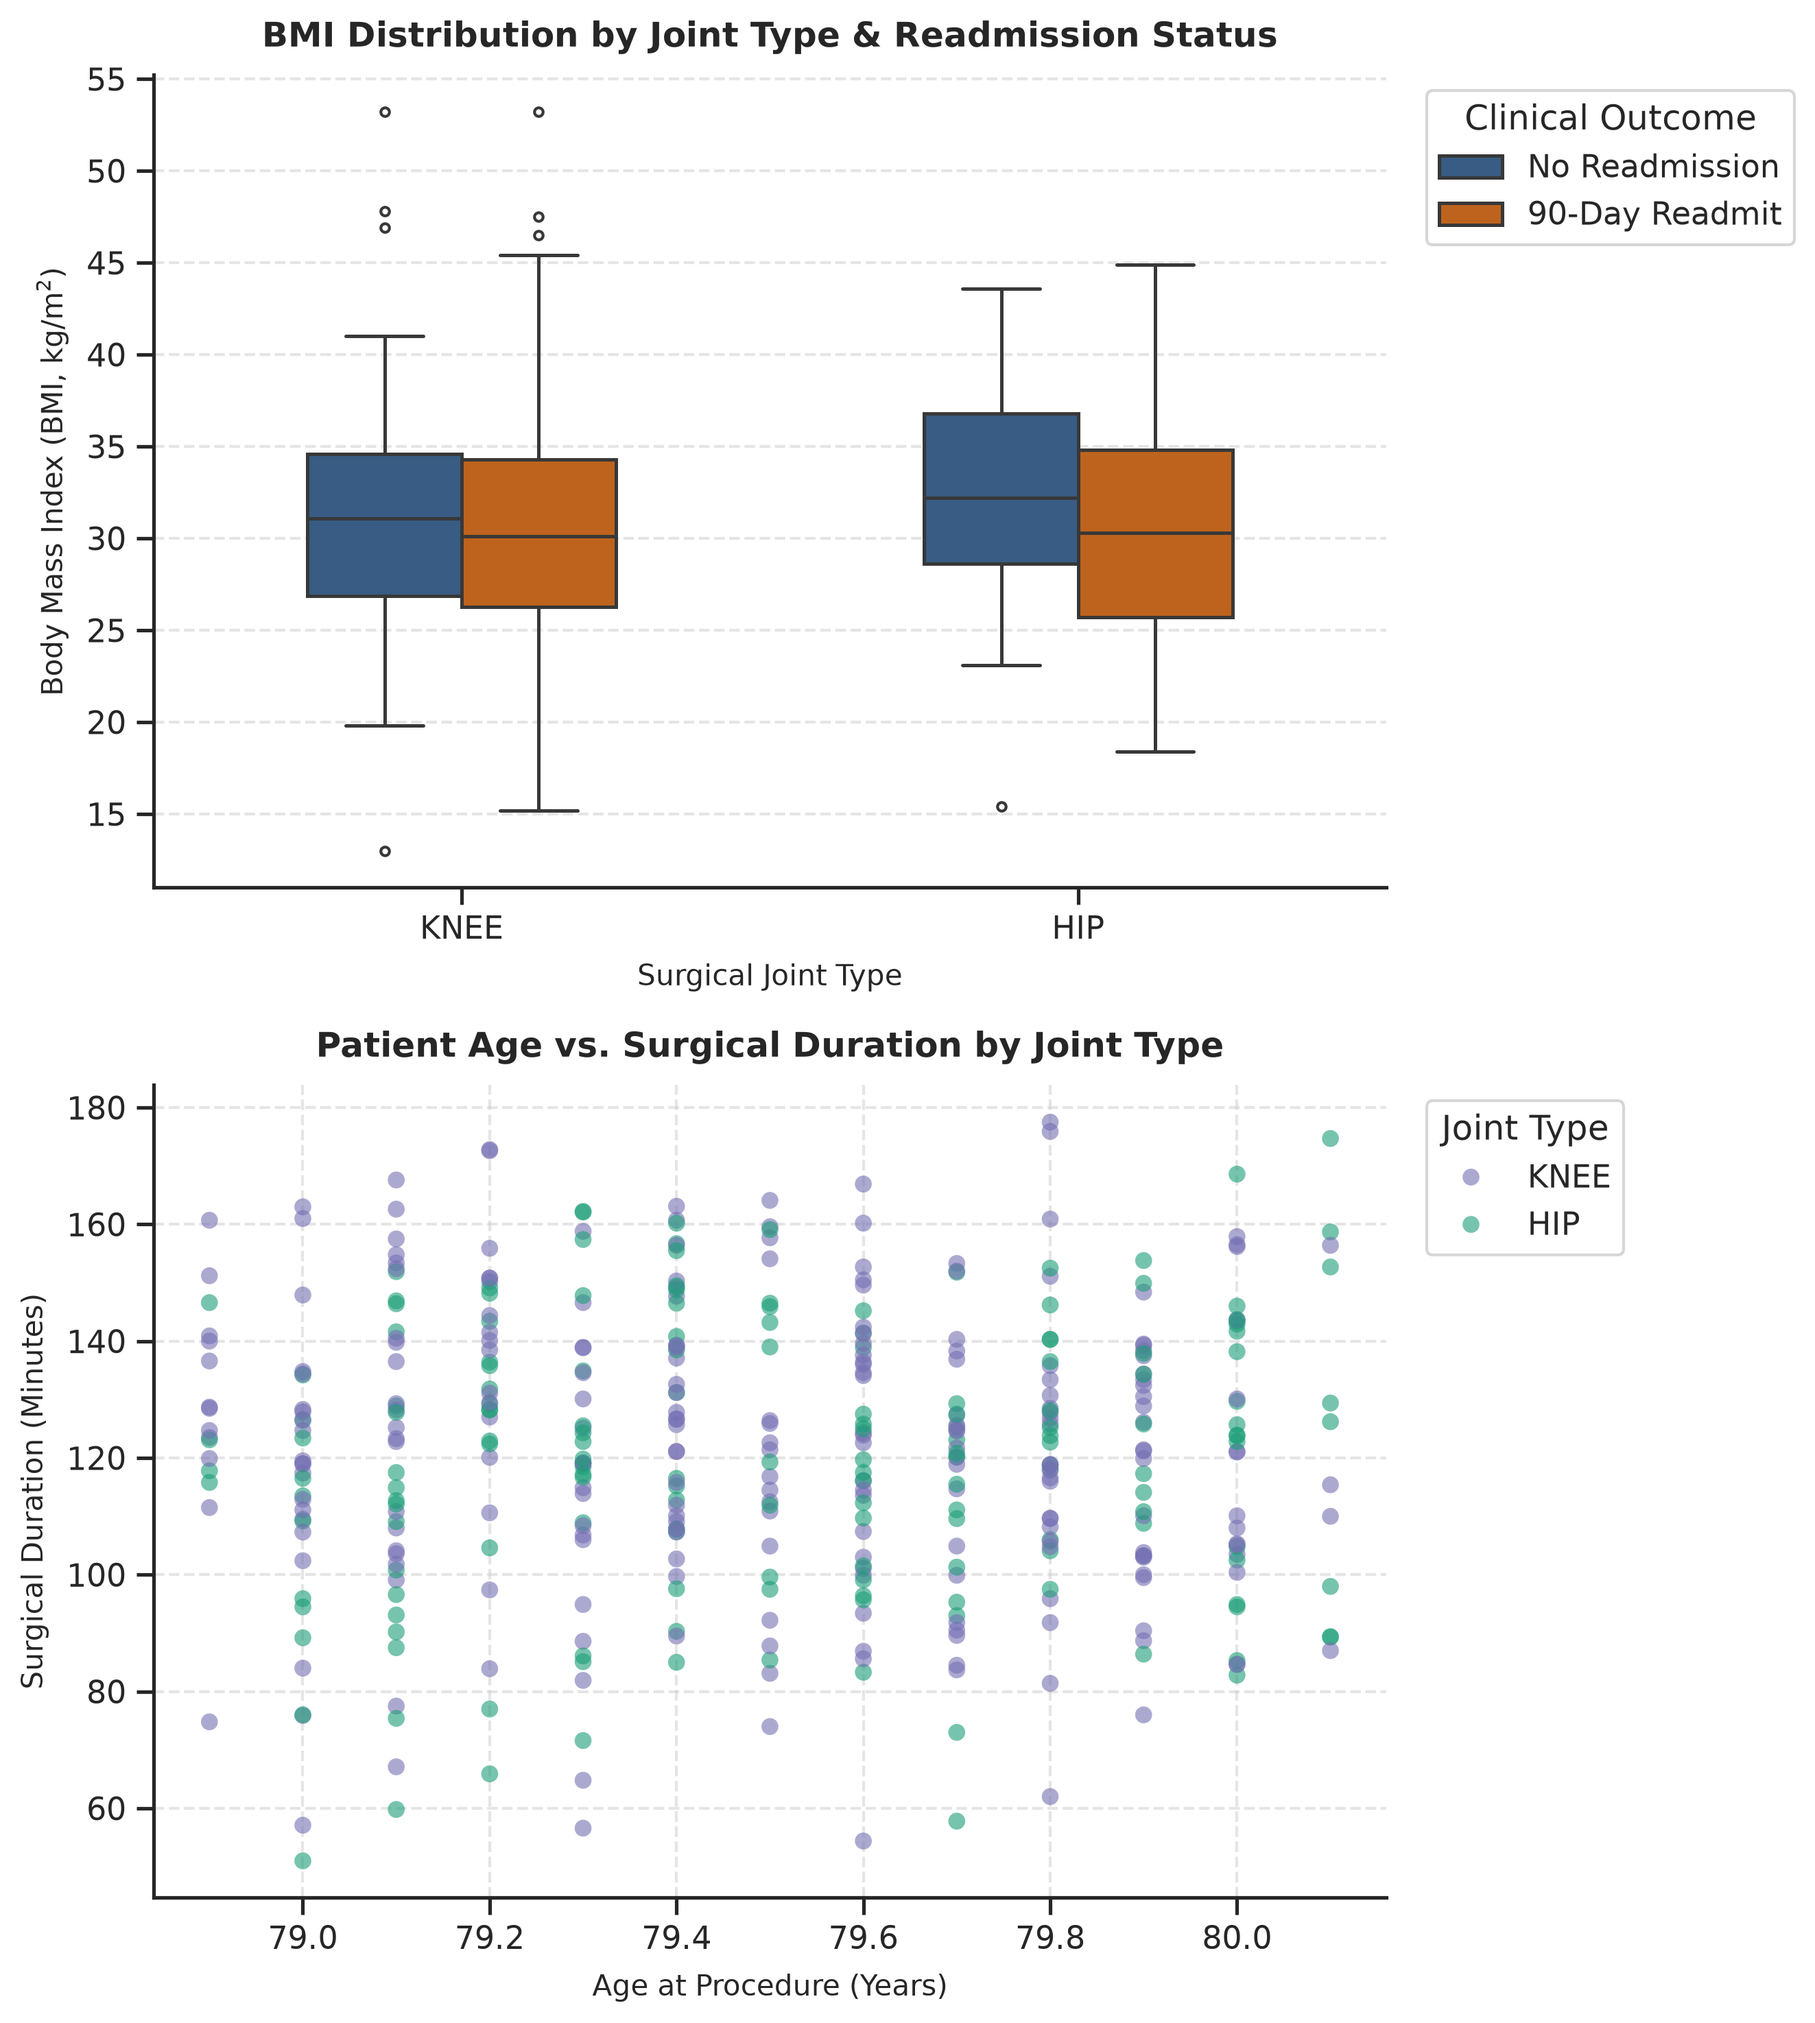
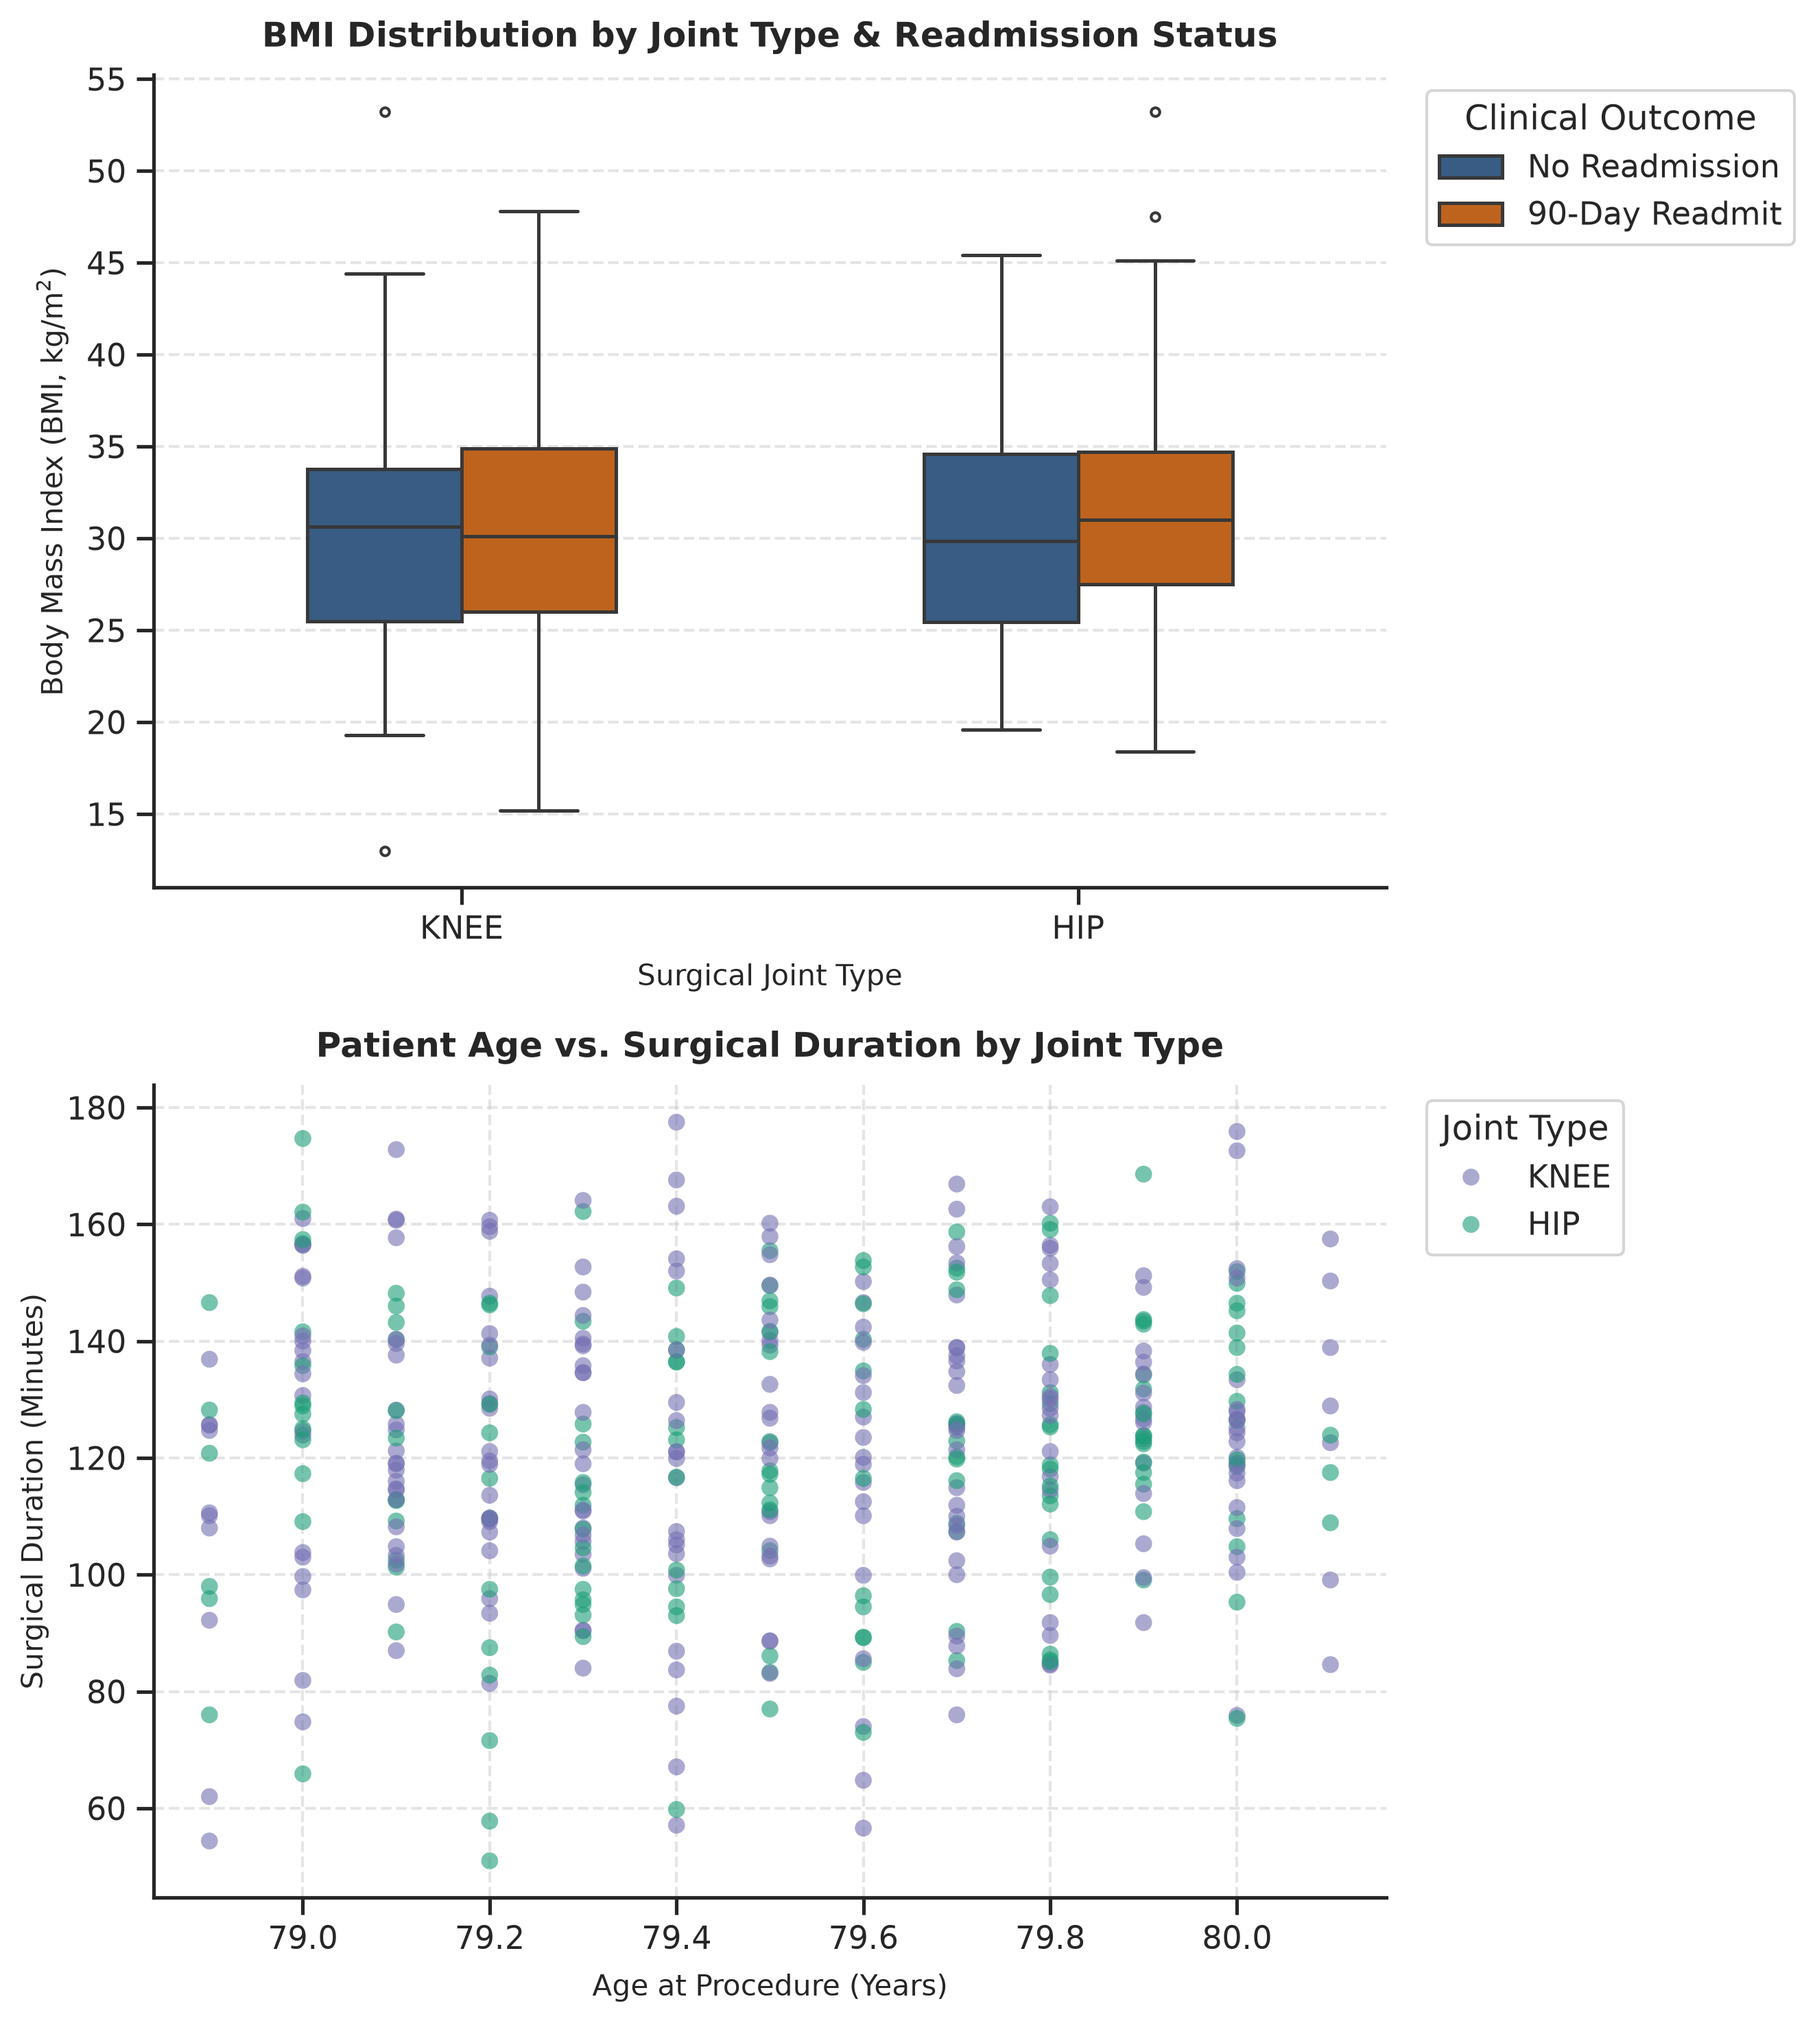
fix: updated figure configuration and labels

diff --git a/src/reporter.py b/src/reporter.py
@@ -1,41 +1,95 @@
 """write a markdown summary table and embed some simple plots"""
 
+import numpy as np
+import pandas as pd
 import polars as pl
 import seaborn as sns
 import matplotlib.pyplot as plt
 
-
 def generate_figures(df: pl.DataFrame, output_image_path: str) -> None:
-    """create seaborn plots (box and scatter)"""
+    """
+    generates bmi box plot and scatter on age x surgical duration
+    """
 
     # convert polars df to pandas for seaborn compatibility
     pdf = df.to_pandas()
+    
+    # map readmission from binary to categorical
+    pdf["readmit_label"] = pdf["readmit_90day"].map({0: "No Readmission", 1: "90-Day Readmit"})
+    
+    # set theme and subplot options
+    sns.set_theme(style="ticks", font="sans-serif")
+    fig, axes = plt.subplots(
+            nrows=2, 
+            ncols=1,
+            figsize=(9, 10), 
+            sharex=False,
+            )
 
-    sns.set_theme(style="whitegrid")
-    fig, axes = plt.subplots(1, 2, figsize=(12, 4.5))
+    # color palette
+    colors_readmit = {"No Readmission": "#2b5c8f", "90-Day Readmit": "#d95f02"}
+    colors_joint = {"HIP": "#1b9e77", "KNEE": "#7570b3"}
 
+    # bmi by joint type and readmission
     sns.boxplot(
         data=pdf,
         x="joint_type",
         y="bmi",
-        hue="readmit_90day",
-        palette={0: "#1f77b4", 1: "#d62728"},
+        hue="readmit_label",
+        palette=colors_readmit,
+        width=0.5,
+        linewidth=1.2,
+        fliersize=3,
         ax=axes[0]
     )
-    axes[0].set_title("BMI by Joint Type & Readmission")
+    
+    axes[0].set_title("BMI Distribution by Joint Type & Readmission Status", fontsize=12, fontweight="bold", pad=10)
+    axes[0].set_xlabel("Surgical Joint Type", fontsize=10, labelpad=6)
+    axes[0].set_ylabel("Body Mass Index (BMI, $\\mathrm{kg/m^2}$)", fontsize=10, labelpad=6)
+    axes[0].grid(True, linestyle="--", alpha=0.5, axis="y")
 
+    # move legend to top right
+    axes[0].legend(
+        title="Clinical Outcome",
+        bbox_to_anchor=(1.02, 1),
+        loc="upper left",
+        frameon=True,
+        facecolor="white",
+        edgecolor="#cccccc"
+    )
+    
+    # scatter of age x surgical_duration
     sns.scatterplot(
         data=pdf,
         x="age_at_procedure",
         y="surgical_duration_min",
         hue="joint_type",
-        alpha=0.7,
+        palette=colors_joint,
+        alpha=0.6,
+        s=35,
+        edgecolor="none",
         ax=axes[1]
     )
-    axes[1].set_title("Age vs. Surgical Duration")
 
+    axes[1].set_title("Patient Age vs. Surgical Duration by Joint Type", fontsize=12, fontweight="bold", pad=10)
+    axes[1].set_xlabel("Age at Procedure (Years)", fontsize=10, labelpad=6)
+    axes[1].set_ylabel("Surgical Duration (Minutes)", fontsize=10, labelpad=6)
+    axes[1].grid(True, linestyle="--", alpha=0.5)
+
+    # move legend outside top right
+    axes[1].legend(
+        title="Joint Type",
+        bbox_to_anchor=(1.02, 1),
+        loc="upper left",
+        frameon=True,
+        facecolor="white",
+        edgecolor="#cccccc"
+    )
+    
+    # set layout
+    sns.despine(top=True, right=True) # remove top and right spines
     plt.tight_layout()
-    plt.savefig(output_image_path, dpi=300)
+    plt.savefig(output_image_path, dpi=300, bbox_inches="tight")
     plt.close()
 
 
@@ -53,10 +107,10 @@ def generate_markdown_report(df: pl.DataFrame, image_filename: str, output_md_pa
         readmit_n=pl.col("readmit_90day").sum()
     ).sort("joint_type")
 
-    # Simple Markdown string construction
+    # create a markdown string
     md_content = f"""# Summary Report
 
-## Cohort Overview
+## Overview
 
 | Joint Type | N | Mean Age | Median BMI | Mean Surg Min | 90-Day Readmits |
 |---|---|---|---|---|---|

diff --git a/reports/clinical_data_summary.md b/reports/clinical_data_summary.md
@@ -1,11 +1,11 @@
-# Registry Summary Report
+# Summary Report
 
-## Cohort Overview
+## Overview
 
 | Joint Type | N | Mean Age | Median BMI | Mean Surg Min | 90-Day Readmits |
 |---|---|---|---|---|---|
-| HIP | 171 | 79.5 | 30.4 | 119.8 | 137 |
-| KNEE | 251 | 79.5 | 30.5 | 122.1 | 195 |
+| HIP | 171 | 79.5 | 30.6 | 119.8 | 137 |
+| KNEE | 251 | 79.5 | 30.2 | 122.1 | 195 |
 
 ## Analytical Distributions
 
